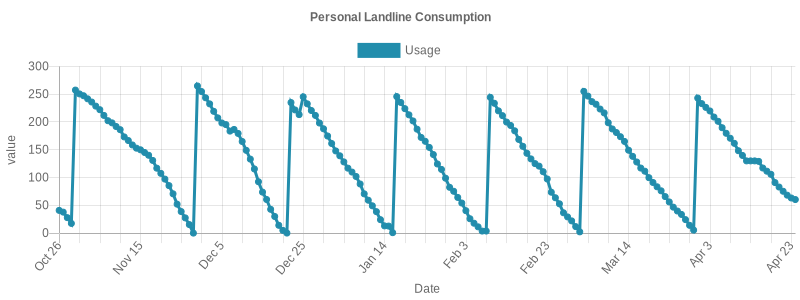
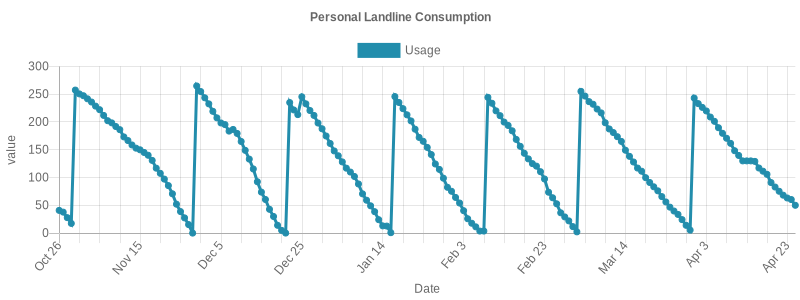
update logs

diff --git a/quota-logs/README.md b/quota-logs/README.md
@@ -180,3 +180,4 @@
 ## Mon Apr 22 2024 00:34:27 GMT+0200|68.25/250
 ## Tue Apr 23 2024 00:35:28 GMT+0200|63.2/250
 ## Wed Apr 24 2024 00:34:52 GMT+0200|60.38/250
+## Thu Apr 25 2024 00:35:13 GMT+0200|50.06/250
